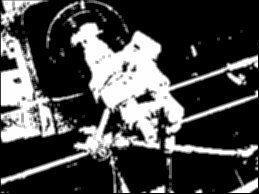
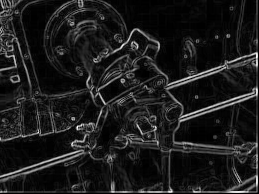
sobel

diff --git a/Q3/main.py b/Q3/main.py
@@ -51,16 +51,12 @@ def mediana(img):
     return img_mediana
 
 def sobel(img):
-    h, w, c = img.shape 
-    m = 3//2
-    n = 3//2
-    i = 0
-    j = 0
-    k = -m
-    l = -n
-    dfi = dfj = soma = 0
-
-    resultado = np.zeros(img.shape, dtype='uint16') 
+    h, w, c = img.shape
+    dfi = dfj = 0
+    i = j = 0
+    k = l = 0
+    x = y = 0
+    m = 3
 
     vertical = np.array([[-1, -2, -1],
                     [0, 0, 0],
@@ -70,43 +66,36 @@ def sobel(img):
                     [-2, 0, 2],
                     [-1, 0, 1]])
 
+    resultado_final = np.zeros(img.shape, dtype='uint16')
+
     for i in range(i, h-1, 1):
         for j in range(j, w-1, 1):
-            #count_x = 0
-            for k in range(k, m+1, 1):
-                #count_y = 0
-                for l in range(l, n+1, 1):
-                    count_x = 0
-                    for count_x in range(count_x, 3, 1):
-                        count_y = 0
-                        for count_y in range(count_y, 3, 1):
-                            if (k+i < 0 or k+i > h-1) or (l+j < 0 or l+j > w-1):
-                                dfi += np.add(dfi, 0)
-                                dfj += np.add(dfj, 0)
-                            else:
-                            #print(count_x, count_y)
-                            #print(vertical[count_x, count_y], img[k+i, l+j], vertical[count_x, count_y]*img[k+i, l+j])
-                                dfi = np.add(dfi, np.multiply(vertical[count_x, count_y], img[k+i, l+j]))
-                                dfj = np.add(dfj, np.multiply(horizontal[count_x, count_y], img[k+i, l+j]))
-                    #count_y += 1
-                l = -n
-                #count_x += 1
-            k = -m
-            soma = np.add(abs(dfi), abs(dfj))
-            resultado[i, j] = soma
+           
+            for k in range(k, m, 1):
+                for l in range(l, m, 1):
+                    if (k+i+1 < 0 or k+i+1 > h-1) or (l+j+1 < 0 or l+j+1 > w-1):
+                        pass
+                    else:
+                        dfi = np.add(dfi, np.multiply(img[i+k+1, j+l+1, 0],vertical[k, l]))
+                        dfj = np.add(dfj, np.multiply(img[i+k+1, j+l+1, 0],horizontal[k, l]))
+                        #print(img[i+k+1, j+l+1], vertical[k, l], dfi)
+                l = 0 
+            k = 0
+            soma = np.absolute(dfi) + np.absolute(dfj)
             #print(soma)
-            dfi = np.multiply(dfi, 0)
-            dfj = np.multiply(dfj, 0)
+            resultado_final[i, j] = soma
+            dfi = 0
+            dfj = 0
             soma = 0
-        j = 0
+        j = 0    
 
-    img_resultante_sobel = Image.fromarray(resultado.astype(np.uint8))
+    img_resultante_sobel = Image.fromarray(resultado_final.astype(np.uint8))
 
     img_resultante_sobel.save("sosobel.png")
     
-    resultado_final = histograma(resultado, img.shape)
+    resultado_histograma = histograma(resultado_final, img.shape)
 
-    return resultado_final
+    return resultado_histograma
 
 def histograma(sob, img_shape):
     h, w, c = img_shape
@@ -115,29 +104,24 @@ def histograma(sob, img_shape):
     menor = np.amin(sob)
     resultado = np.zeros(img_shape, dtype='uint8') 
 
-    #print(np.amax(sob))
-    #print(np.amin(sob))
+    #print(maior, menor)
 
     for i in range(i, h-1, 1):
         for j in range(j, w-1, 1):
             tr = np.round_(np.multiply(np.divide(np.subtract(sob[i, j, 0], menor), maior - menor), 254))
-            #tr = round(((sob[i, j] - menor)/(maior - menor))*(254))
-            #tr_G = np.round_(((sob[i, j, 1] - menor)/(maior - menor))*(maior - 1))
-            #tr_B = np.round_(((sob[i, j, 2] - menor)/(maior - menor))*(maior - 1))
-            #print(sob[i, j], menor, maior, tr)
             resultado[i, j] = tr
         j = 0
     #print(resultado)
 
     return resultado
 
-#img_resultante_mediana = mediana(a)
+img_resultante_mediana = mediana(a)
 img_resultante_sobel = sobel(a)
 
-#img_resultante_rgb = Image.fromarray(img_resultante_mediana.astype(np.uint8))
+img_resultante_rgb = Image.fromarray(img_resultante_mediana.astype(np.uint8))
 img_resultante_rgb2 = Image.fromarray(img_resultante_sobel.astype(np.uint8))
 
-#img_resultante_rgb.save("medianaRGB.png")
+img_resultante_rgb.save("medianaRGB.png")
 img_resultante_rgb2.save("sobel.png")
 
 
